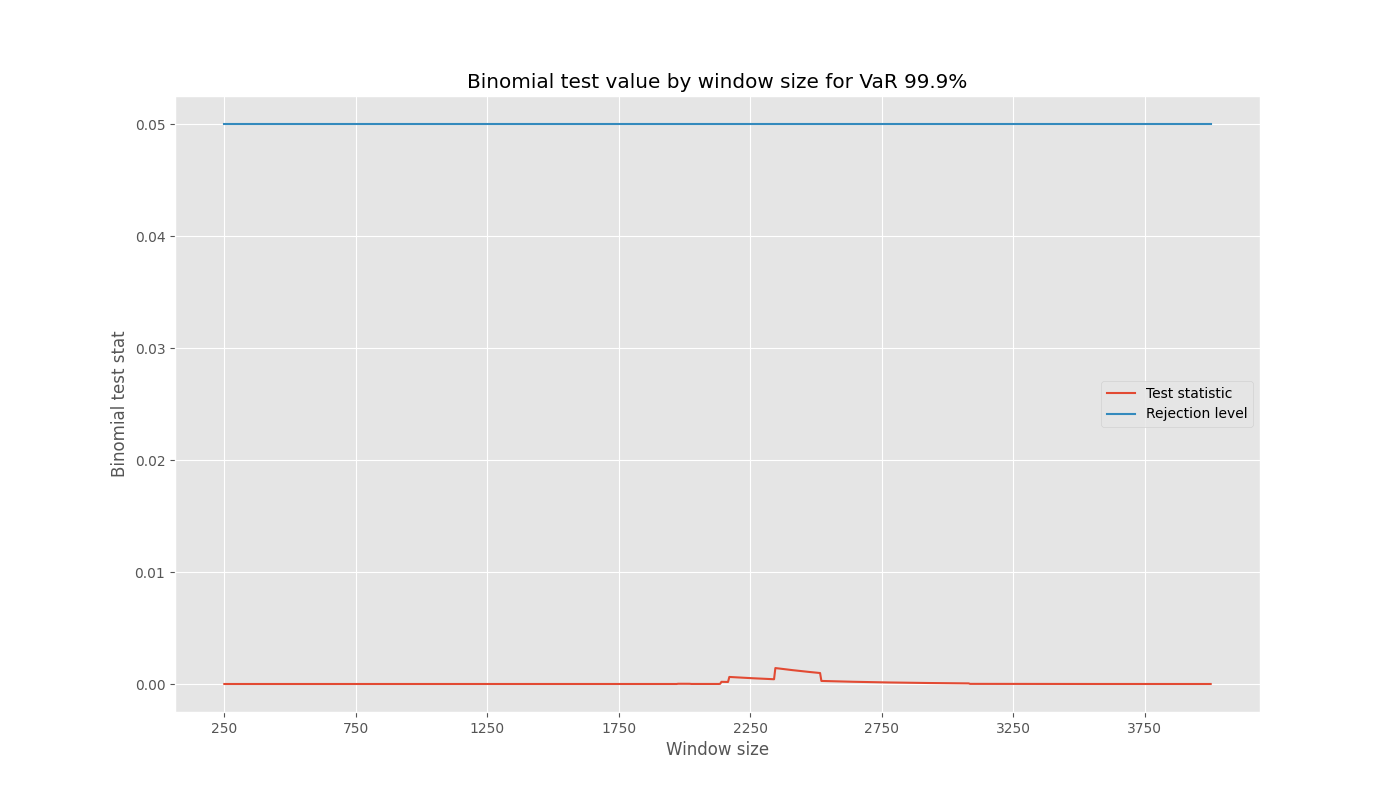
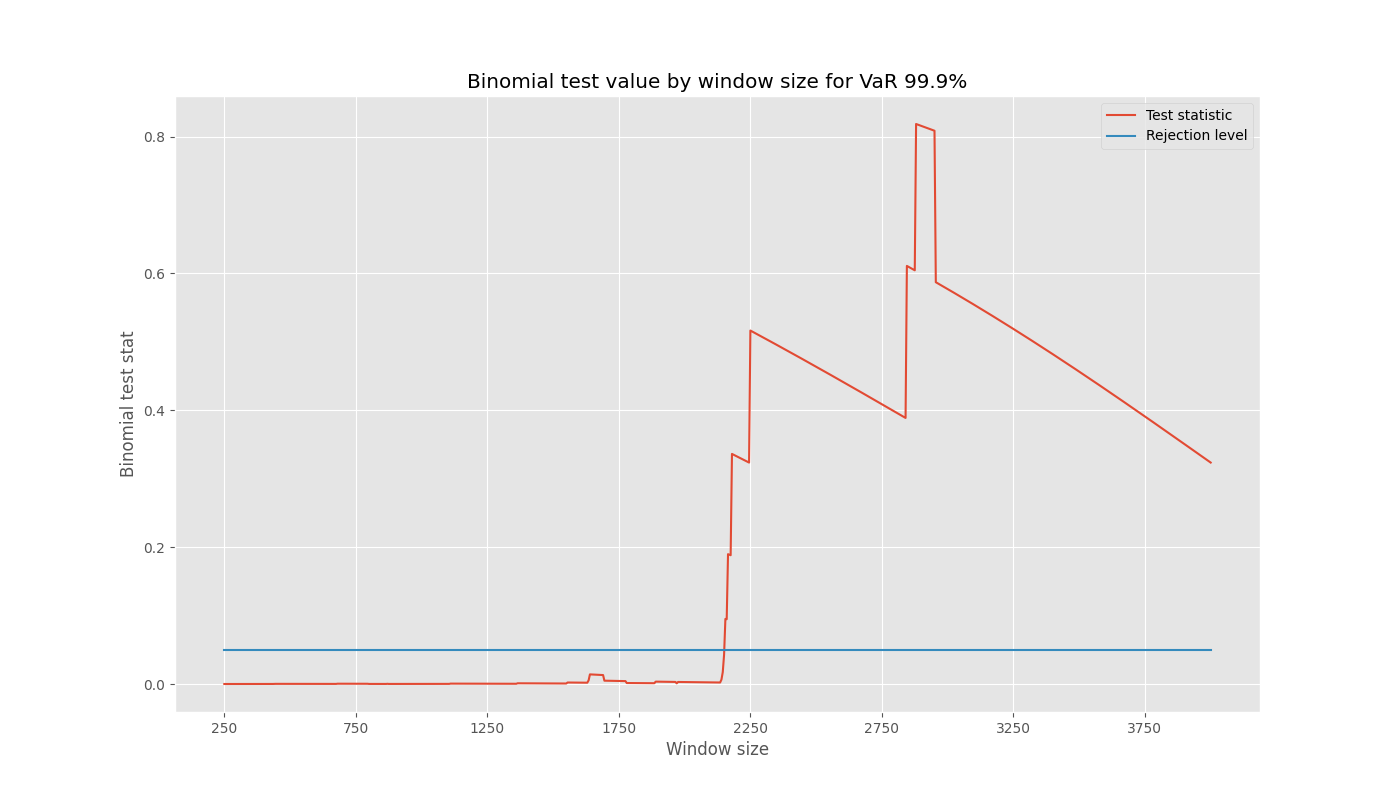
Bugfix

diff --git a/FinancialRiskManagementUC3M/Assignment_3/HsVaR_Backtesting.py b/FinancialRiskManagementUC3M/Assignment_3/HsVaR_Backtesting.py
@@ -5,46 +5,65 @@ import scipy.stats as stats;
 
 plt.style.use("ggplot");
 
-portfolio_filepath  = "C:\\Users\\goomb\\OneDrive\\Documentos\\GitHub\\";
-portfolio_filepath += "UC3M_Projects\\FinancialRiskManagementUC3M\\Data\\Assignment_3\\PortfolioChange.csv";
+portfolio_change_filepath  = "C:\\Users\\goomb\\OneDrive\\Documentos\\GitHub\\";
+portfolio_change_filepath += "UC3M_Projects\\FinancialRiskManagementUC3M\\Data\\Assignment_3\\";
 
-portfolio_change = pd.read_csv(portfolio_filepath, date_format = "dd/mm/yyyy");
+portfolio_value_filepath = portfolio_change_filepath + "PortfolioData.csv";
+portfolio_change_filepath += "PortfolioChange.csv";
+
+
+portfolio_change = pd.read_csv(portfolio_change_filepath, date_format = "dd/mm/yyyy");
+portfolio_value = pd.read_csv(portfolio_value_filepath, date_format = "dd/mm/yyyy");
 
 # These global constants allow us to easily change the parameters of the model
-BACKTESTING_WINDOW = 1_000;
+BACKTESTING_WINDOW = 1000;
 CONF_LEVEL = 0.95;
 SERIES_LENGTH = len(portfolio_change.Change);
 N = SERIES_LENGTH - BACKTESTING_WINDOW;
 P = round(1 - CONF_LEVEL, 4);
+PORTFOLIO_VALUES = np.array(portfolio_value.portfolio_value, dtype = "float32");
 
 # Int Conf is only used to simplify plot headers
 INT_CONF = round(CONF_LEVEL * 100);
 
+assert ((BACKTESTING_WINDOW < 6001) and (BACKTESTING_WINDOW > 0)), "The time window has to be in [1, 6000]"
+assert ((CONF_LEVEL < 1) and (CONF_LEVEL > 0)), "The confidence level must be in (0, 1)"
 
-fig_filepath = "C:\\Users\\goomb\\OneDrive\\Documentos\\GitHub\\UC3M_Projects";
-fig_filepath += f"\\FinancialRiskManagementUC3M\\Data\\Plots\\Backtesting\\HsVarBacktesting{INT_CONF}.png";
+fig_filepath = "C:\\Users\\goomb\\OneDrive\\Documentos\\GitHub\\UC3M_Projects\\FinancialRiskManagementUC3M";
+fig_filepath += "\\Data\\Plots\\Backtesting\\HsVaR";
+fig_filepath += f"\\HsVarBacktesting{INT_CONF}CONF{BACKTESTING_WINDOW}SAMPLES.png";
 
 def hist_sim_var(change_arr : np.ndarray, window : int):
     """
     Runs a historic simulation VaR on the array of daily changes that you input using the
     specified time window
 
-    Parameters: Global constant for the confidence level, the specified window and the array
-    of daily changes of the series
+    Parameters: Global constant for the confidence level and the values of the portfolio, 
+    the specified window and the array of daily changes of the series
     """
     global CONF_LEVEL;
+    global PORTFOLIO_VALUES;
 
     length = len(change_arr);
 
     result_arr = np.array([np.quantile(change_arr[(i - window):i], 1 - CONF_LEVEL) \
                            for i in range(window, length, 1)], dtype="float32");
 
+    # Because we are using log changes, we have to scale them back
+    result_arr = PORTFOLIO_VALUES[(window - 1):-2] * (np.exp(result_arr) - 1); 
+    
     return result_arr;
 
-change_arr = np.array(portfolio_change.Change);
+
+
+
+change_arr = np.array(portfolio_change.Change_perc);
+
+absolute_change_arr = np.array(portfolio_change.Change);
+
 var = hist_sim_var(change_arr, BACKTESTING_WINDOW);
 
-n_exceptions = np.sum(change_arr[BACKTESTING_WINDOW:] < var)
+n_exceptions = np.sum(absolute_change_arr[BACKTESTING_WINDOW:] < var)
 exception_prop = n_exceptions / (len(portfolio_change.Change) - BACKTESTING_WINDOW)
 
 fig, ax = plt.subplots(figsize = (14,8))
@@ -61,6 +80,9 @@ plt.savefig(fig_filepath)
 plt.show()
 
 plt.clf()
+
+
+
 
 
 
@@ -92,6 +114,8 @@ def window_analysis():
     global CONF_LEVEL;
     global SERIES_LENGTH;
     global INT_CONF;
+    global change_arr;
+    global absolute_change_arr;
 
     fig_filepath = "C:\\Users\\goomb\\OneDrive\\Documentos\\GitHub\\UC3M_Projects";
     fig_filepath += f"\\FinancialRiskManagementUC3M\\Data\\Plots\\Backtesting\\HsVaRWindowAnalysis{INT_CONF}.png";
@@ -103,7 +127,7 @@ def window_analysis():
 
         var = hist_sim_var(change_arr, window_size);
 
-        n_exceptions = np.sum(change_arr[window_size:] < var) 
+        n_exceptions = np.sum(absolute_change_arr[window_size:] < var) 
 
         binom_test = 1 - stats.binom.cdf(n_exceptions - 1, SERIES_LENGTH - window_size, 1 - CONF_LEVEL);
 
@@ -133,5 +157,4 @@ def window_analysis():
 Warning; this took 4 minutes to run on my computer, the plots for the 95, 99 and 99.9% confidence
 levels are available in the Data/Plots/Backtesting folder already
 """
-
 #window_analysis()
